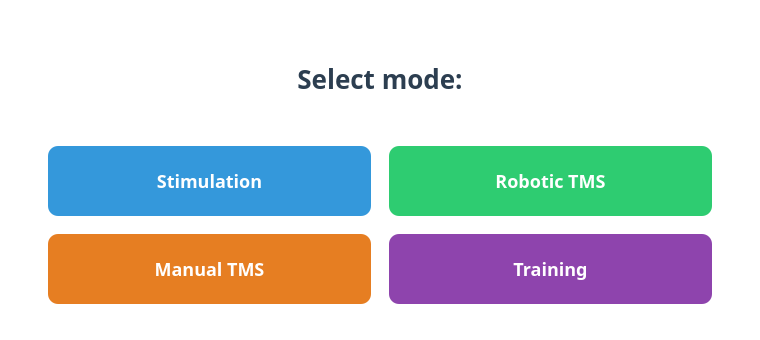
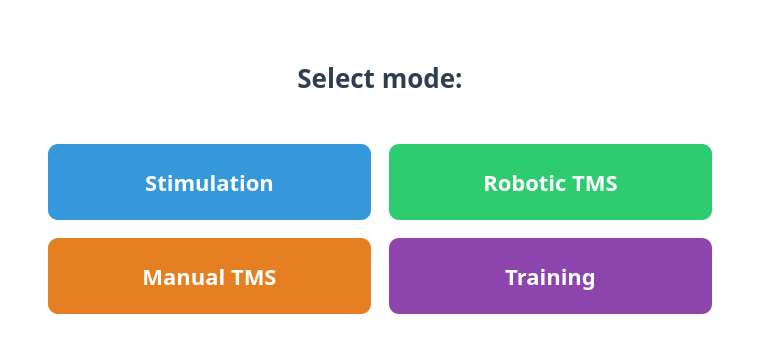
Increase the mode-selector button text
Raise the four button labels to 22 px and give the buttons a little more height, then refresh the docs screenshot.

diff --git a/src/neuropilot/controller/experiment_mode.py b/src/neuropilot/controller/experiment_mode.py
@@ -29,7 +29,7 @@ class ModeSelectionDialog(QDialog):
         self.setWindowTitle("TMS NeuroPilot")
         # to remove the '?' button
         self.setWindowFlags(self.windowFlags() & ~Qt.WindowContextHelpButtonHint)
-        self.setFixedSize(760, 340)
+        self.setFixedSize(760, 350)
         # Set a clean white background for the dialog
         self.setStyleSheet("QDialog { background-color: #ffffff; }")
 
@@ -65,14 +65,14 @@ class ModeSelectionDialog(QDialog):
                 outline: none; /* Kills the native Linux focus glow */
                 border-radius: 10px;
                 padding: 16px 24px;
-                font-size: 18px;
+                font-size: 22px;
                 font-weight: 600;
                 font-family: 'Segoe UI', Helvetica, Arial, sans-serif;
             }
         """
         for button in (self.btn_sim, self.btn_real,
                        self.btn_manual, self.btn_training):
-            button.setMinimumHeight(70)
+            button.setMinimumHeight(76)
             button.setSizePolicy(QSizePolicy.Expanding, QSizePolicy.Fixed)
 
         # Stimulation Button Style (Blue theme)
